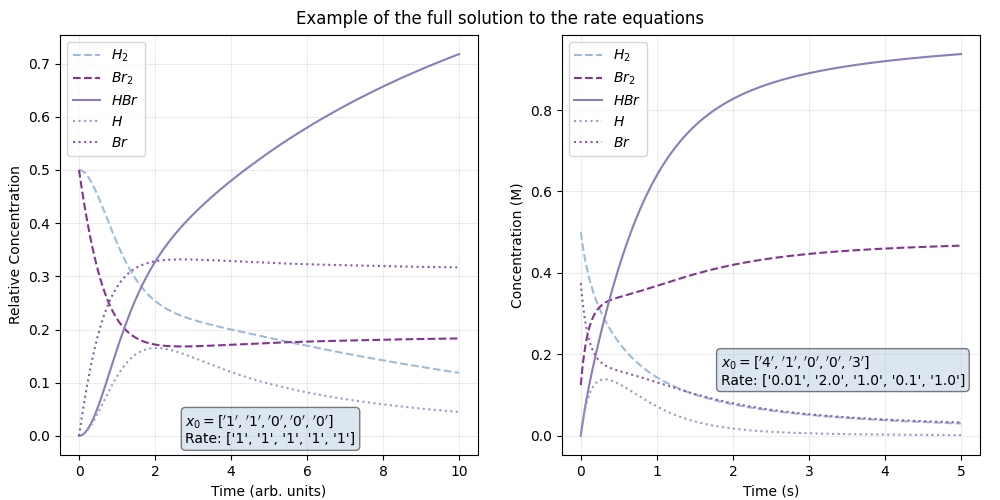
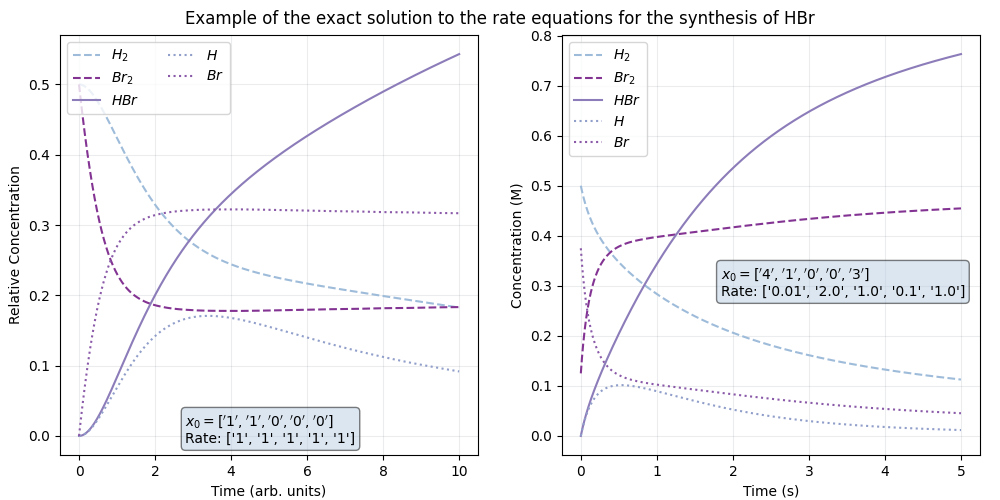
feat: :art: add updated plot of basic solution for HydrogenFusion
Updated equations to have fractional currents.

diff --git a/HydrogenFusion/Code/triplot.py b/HydrogenFusion/Code/triplot.py
@@ -1,0 +1,75 @@
+"""
+Plot all three HydrogenFusion models on the same plot.
+"""
+import numpy as np
+import matplotlib.pyplot as plt
+import matplotlib as mpl
+from matplotlib.legend_handler import HandlerTuple
+import palettable as pl
+import cmasher as cmr
+from hydrogenfusion import HydrogenFusion, HydrogenFusionStationaryBr, HydrogenFusionStationaryH
+
+# Define the initial concentrations.
+init_conc = np.array([1, 1, 0, 0, 0])
+
+# Define the time points.
+tau = np.linspace(0, 10, 1000)
+
+# Define the constants.
+rates = np.array([1, 1, 1, 1, 1])
+
+# Initialize the HydrogenFusion objects.
+hf = HydrogenFusion(init_conc, tau, rates)
+hf_Br = HydrogenFusionStationaryBr(init_conc, tau, rates)
+hf_H = HydrogenFusionStationaryH(init_conc, tau, rates)
+
+# Solve the system.
+sol = hf.solve()
+sol_Br = hf_Br.solve()
+sol_H = hf_H.solve()
+
+# Plot the results.
+fig, ax = plt.subplots(1, 2, figsize=(10, 5))
+
+# Define the colors.
+custom_colors = ["#9750a1", "#00c9bf", "#48817c"]
+cm = pl.colorbrewer.sequential.Blues_7.mpl_colormap
+colors = cmr.take_cmap_colors(cm, 6, cmap_range=(0.2, 1), return_fmt='hex')
+
+cm_Br = pl.colorbrewer.sequential.RdPu_7.mpl_colormap
+colors_Br = cmr.take_cmap_colors(cm_Br, 6, cmap_range=(0.2, 1), return_fmt='hex')
+
+cm_H = pl.colorbrewer.sequential.BuGn_7.mpl_colormap
+colors_H = cmr.take_cmap_colors(cm_H, 6, cmap_range=(0.2, 1), return_fmt='hex')
+
+# --- Plot 1 ---
+
+# Plot the solutions.
+mod1_H2 = ax[0].plot(sol.t, sol.y[0], color=colors[0], linestyle='--')
+mod1_Br2 = ax[0].plot(sol.t, sol.y[1], color=colors[1], linestyle=':')
+mod1_HBr = ax[0].plot(sol.t, sol.y[2], color=colors[2])
+mod1_H = ax[0].plot(sol.t, sol.y[3], color=colors[3], linestyle=(0, (5, 10)))
+mod1_Br = ax[0].plot(sol.t, sol.y[4], color=colors[4], linestyle=(0, (3, 10, 1, 10, 1, 10)))
+mod1_sum = ax[0].plot(sol.t, np.sum(sol.y, axis=0), color=colors[5], linestyle='-', lw=1)
+
+mod2_H2 = ax[0].plot(sol_Br.t, sol_Br.y[0], color=colors_Br[0], linestyle='--')
+mod2_Br2 = ax[0].plot(sol_Br.t, sol_Br.y[1], color=colors_Br[1], linestyle=':')
+mod2_HBr = ax[0].plot(sol_Br.t, sol_Br.y[2], color=colors_Br[2])
+mod2_H = ax[0].plot(sol_Br.t, sol_Br.y[3], color=colors_Br[3], linestyle=(0, (5, 10)))
+mod2_Br = ax[0].plot(sol_Br.t, sol_Br.y[4], color=colors_Br[4], linestyle=(0, (3, 10, 1, 10, 1, 10)))
+mod2_sum = ax[0].plot(sol_Br.t, np.sum(sol_Br.y, axis=0), color=colors_Br[5], linestyle='-', lw=1)
+
+mod3_H2 = ax[0].plot(sol_H.t, sol_H.y[0], color=colors_H[0], linestyle='--')
+mod3_Br2 = ax[0].plot(sol_H.t, sol_H.y[1], color=colors_H[1], linestyle=':')
+mod3_HBr = ax[0].plot(sol_H.t, sol_H.y[2], color=colors_H[2])
+mod3_H = ax[0].plot(sol_H.t, sol_H.y[3], color=colors_H[3], linestyle=(0, (5, 10)))
+mod3_Br = ax[0].plot(sol_H.t, sol_H.y[4], color=colors_H[4], linestyle=(0, (3, 10, 1, 10, 1, 10)))
+mod3_sum = ax[0].plot(sol_H.t, np.sum(sol_H.y, axis=0), color=colors_H[5], linestyle='-', lw=1)
+
+ax[0].hlines(1, 0, 10, color='#424656', linestyle='--')
+
+# --- Plot 2 ---
+
+ax[1].plot(sol.t, sol.y[0], color=colors[0], linestyle='--')
+
+plt.show()

diff --git a/HydrogenFusion/Code/hydrogenfusion.py b/HydrogenFusion/Code/hydrogenfusion.py
@@ -47,7 +47,7 @@ class HydrogenFusion:
         # Get rate coefficients
         p, q, r, s, t = self.rates
 
-        return s*x*y - r*u*z
+        return 0.5*s*x*y - 0.5*r*u*z
     
     def _dv(self, t_eval, state):
         # Unpack the state vector
@@ -56,7 +56,7 @@ class HydrogenFusion:
         # Get rate coefficients
         p, q, r, s, t = self.rates
 
-        return q*z**2 - p*v - t*v*y
+        return q*z**2 - p*v - 0.5*t*v*y
     
     def _dx(self, t_eval, state):
         # Unpack the state vector
@@ -65,7 +65,7 @@ class HydrogenFusion:
         # Get rate coefficients
         p, q, r, s, t = self.rates
 
-        return t*v*y - s*x*y + r*u*z
+        return 0.5*t*v*y - 0.5*s*x*y + 0.5*r*u*z
     
     def _dy(self, t_eval, state):
         # Unpack the state vector
@@ -74,7 +74,7 @@ class HydrogenFusion:
         # Get rate coefficients
         p, q, r, s, t = self.rates
 
-        return r*u*z - t*v*y - s*x*y
+        return 0.5*r*u*z - 0.5*t*v*y - 0.5*s*x*y
     
     def _dz(self, t_eval, state):
         # Unpack the state vector
@@ -83,7 +83,7 @@ class HydrogenFusion:
         # Get rate coefficients
         p, q, r, s, t = self.rates
 
-        return t*v*y + p*v - q*z**2
+        return 0.5*t*v*y + p*v - q*z**2
     
 class HydrogenFusionStationaryH(HydrogenFusion):
     def __init__(self, init_conc: Iterable[float], t_eval: Iterable[float], rates: Iterable[float]) -> None:

diff --git a/HydrogenFusion/Code/basic.py b/HydrogenFusion/Code/basic.py
@@ -67,7 +67,7 @@ props = dict(boxstyle='round', facecolor=colors[0], alpha=0.5)
 ax[0].text(0.30, 0.10, textstr, transform=ax[0].transAxes, fontsize=10,
         verticalalignment='top', bbox=props)
 
-ax[0].legend()
+ax[0].legend(loc="upper left", ncol=2)
 ax[0].grid(color="#424656", alpha=0.1)
 
 # --- Plot 2 ---
@@ -86,13 +86,13 @@ textstr = '\n'.join((
     r'$x_0={}$'.format([str(x) for x in init_conc2], ),
     r'Rate: {}'.format([str(x) for x in rates2], )))
 props = dict(boxstyle='round', facecolor=colors[0], alpha=0.5)
-ax[1].text(0.38, 0.24, textstr, transform=ax[1].transAxes, fontsize=10,
+ax[1].text(0.38, 0.45, textstr, transform=ax[1].transAxes, fontsize=10,
         verticalalignment='top', bbox=props)
 
 ax[1].legend()
 ax[1].grid(color="#424656", alpha=0.1)
 
-plt.suptitle("Example of the full solution to the rate equations")
+plt.suptitle("Example of the exact solution to the rate equations for the synthesis of HBr")
 plt.subplots_adjust(top=0.93, bottom=0.09, left=0.06, right=0.98)
 plt.show()
 
